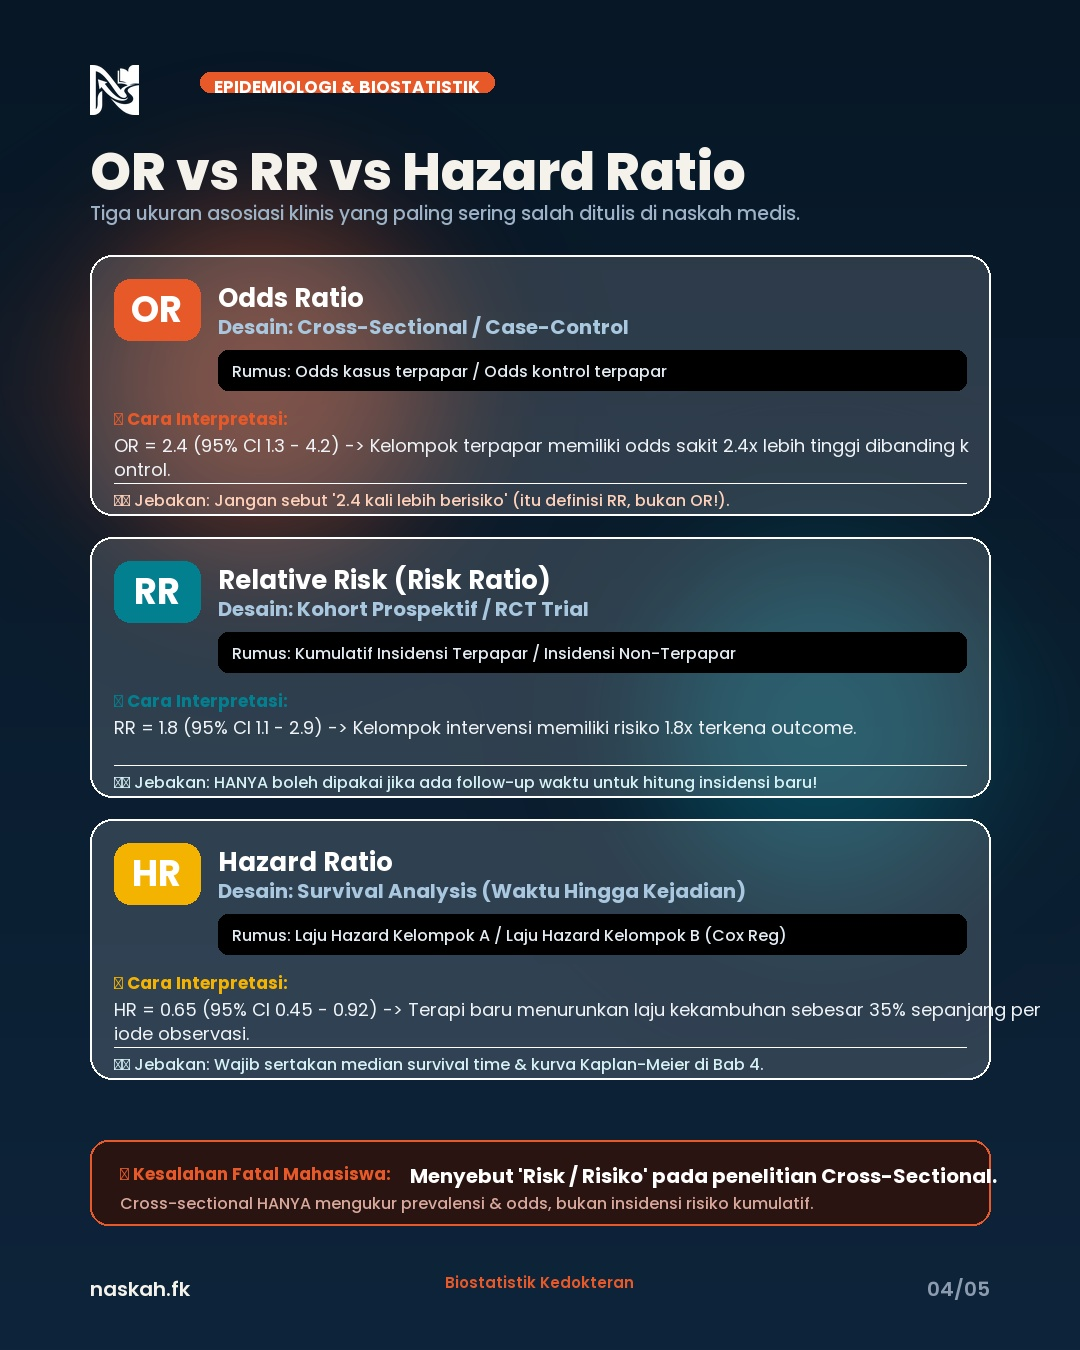
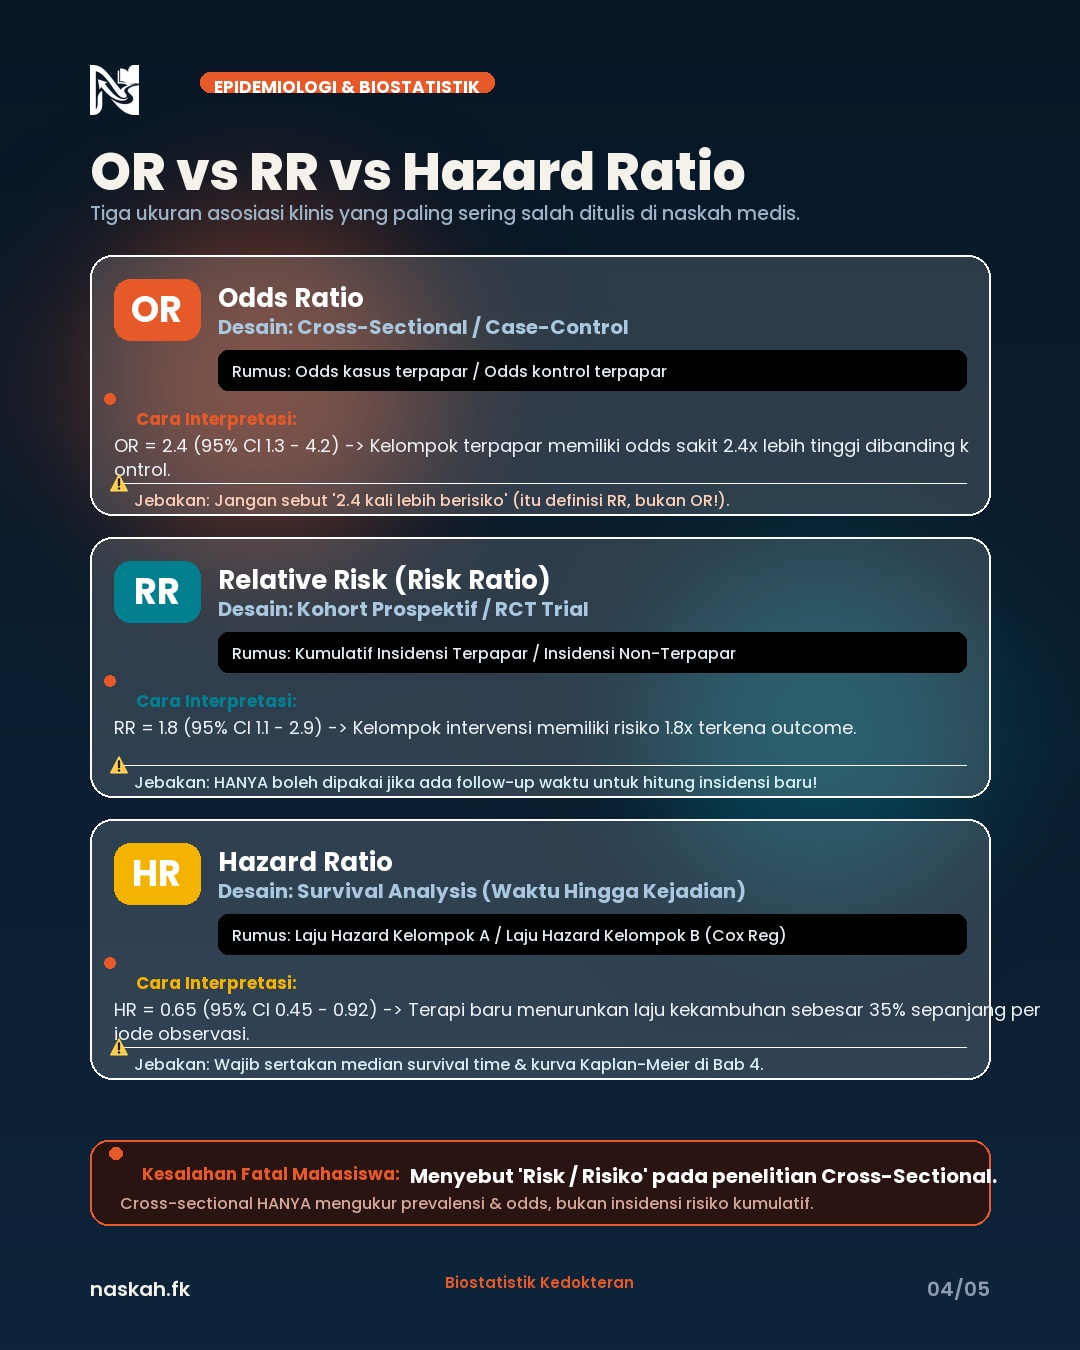
feat(design): resolve broken emoji glyphs, add universal emoji PNG paste & strip helper, 4 rich-density concepts render clean

diff --git a/04_GENERATORS/generate_rich_content_concepts.py b/04_GENERATORS/generate_rich_content_concepts.py
@@ -20,6 +20,10 @@ from __future__ import annotations
 import pathlib
 from PIL import Image, ImageDraw, ImageFilter, ImageFont
 
+import sys
+sys.path.insert(0, str(pathlib.Path(__file__).resolve().parent))
+from emoji_assets import paste_emoji, strip_all_emojis
+
 BASE_DIR = pathlib.Path(r"D:/tm/06_Content")
 FONT_DIR = BASE_DIR / "02_BRAND_ASSETS/fonts/Poppins"
 LOGO_TRANSPARENT = BASE_DIR / "02_BRAND_ASSETS/logos/logo_cutouts_clean/official_logo_transparent.png"
@@ -244,7 +248,8 @@ def render_concept_1_dense_bento():
         # Pro-Rule pill footer inside card
         rule_box = (box[0] + 16, box[3] - 68, box[2] - 16, box[3] - 18)
         d.rounded_rectangle(rule_box, radius=12, fill=ORANGE_LIGHT if c["accent"] == ORANGE else TEAL_LIGHT)
-        d.text((box[0] + 26, box[3] - 56), "💡 Rule:", font=F["pill_bold"], fill=c["accent"])
+        paste_emoji(im, "💡", (box[0] + 22, box[3] - 56), size=24, anchor="la")
+        d.text((box[0] + 50, box[3] - 56), "Rule:", font=F["pill_bold"], fill=c["accent"])
         d.text((box[0] + 90, box[3] - 56), c["rule"][:36] + "...", font=F["caption"], fill=INK)
 
     # Bottom actionable summary pill
@@ -252,7 +257,8 @@ def render_concept_1_dense_bento():
     im = soft_shadow_card(im, sum_box, radius=20, alpha=35, blur=14, offset=(0, 6))
     rounded_rectangle_gradient(im, sum_box, 20, NAVY, NAVY_LIGHT)
     d = ImageDraw.Draw(im)
-    d.text((120, 1182), "📌 Golden Rule:", font=F["pill_bold"], fill=ORANGE)
+    paste_emoji(im, "📌", (116, 1182), size=22, anchor="la")
+    d.text((142, 1182), "Golden Rule:", font=F["pill_bold"], fill=ORANGE)
     d.text((260, 1182), "Selalu tentukan Skala Variabel & Uji Normalitas sebelum buka SPSS!", font=F["body_med"], fill=WHITE)
     d.text((120, 1208), "Simpan cheatsheet ini untuk panduan analisis data naskah kamu.", font=F["caption"], fill=MUTED_LIGHT)
 
@@ -352,13 +358,15 @@ def render_concept_2_workflow_timeline():
         # Detail Box inner
         detail_box = (box[0] + 18, box[1] + 80, box[2] - 18, box[1] + 144)
         d.rounded_rectangle(detail_box, radius=10, fill="#FFFFFF", outline=BORDER_LIGHT, width=1)
-        d.text((box[0] + 32, box[1] + 96), "👉 " + s["detail"][:105] + ("..." if len(s["detail"]) > 105 else ""), font=F["body_reg"], fill=INK)
+        d.text((box[0] + 48, box[1] + 96), s["detail"][:105] + ("..." if len(s["detail"]) > 105 else ""), font=F["body_reg"], fill=INK)
+        paste_emoji(im, "👉", (box[0] + 22, box[1] + 96), size=20, anchor="la")
 
     # Bottom Tip
     bottom_box = (90, 1165, 990, 1235)
     rounded_rectangle_gradient(im, bottom_box, 18, NAVY, NAVY_LIGHT)
     d = ImageDraw.Draw(im)
-    d.text((120, 1188), "⚡ Output Akhir:", font=F["pill_bold"], fill=ORANGE)
+    paste_emoji(im, "⚡", (116, 1188), size=22, anchor="la")
+    d.text((142, 1188), "Output Akhir:", font=F["pill_bold"], fill=ORANGE)
     d.text((270, 1188), "Bab 2 Tinjauan Pustaka siap diserahkan ke Dosen Pembimbing!", font=F["body_med"], fill=WHITE)
 
     footer(im, "03/05", "Workflow Tinjauan Pustaka")
@@ -449,19 +457,22 @@ def render_concept_3_dark_comparison():
         d.text((box[0] + 142, box[1] + 105), "Rumus: " + m["formula"], font=F["caption"], fill="#E3ECF3")
 
         # Interpretation Box
-        d.text((box[0] + 24, box[1] + 152), "📊 Cara Interpretasi:", font=F["pill_bold"], fill=m["color"])
+        paste_emoji(im, "📊", (box[0] + 20, box[1] + 152), size=20, anchor="la")
+        d.text((box[0] + 46, box[1] + 152), "Cara Interpretasi:", font=F["pill_bold"], fill=m["color"])
         d.text((box[0] + 24, box[1] + 178), m["interpretation"][:98], font=F["body_reg"], fill="#F0F4F8")
         if len(m["interpretation"]) > 98:
             d.text((box[0] + 24, box[1] + 202), m["interpretation"][98:], font=F["body_reg"], fill="#F0F4F8")
 
         # Warning / Pitfall bar at bottom of card
         d.line([(box[0] + 24, box[1] + 228), (box[2] - 24, box[1] + 228)], fill=(255, 255, 255, 30), width=1)
-        d.text((box[0] + 24, box[1] + 234), "⚠ Jebakan: " + m["pitfall"], font=F["caption"], fill="#FFD1BA" if m["color"] == ORANGE else "#D6F2F5")
+        paste_emoji(im, "⚠", (box[0] + 20, box[1] + 234), size=18, anchor="la")
+        d.text((box[0] + 44, box[1] + 234), "Jebakan: " + m["pitfall"], font=F["caption"], fill="#FFD1BA" if m["color"] == ORANGE else "#D6F2F5")
 
     # Red Alert Box
     alert_box = (90, 1140, 990, 1225)
     d.rounded_rectangle(alert_box, radius=18, fill="#2A1412", outline=ORANGE, width=2)
-    d.text((120, 1162), "🚫 Kesalahan Fatal Mahasiswa:", font=F["pill_bold"], fill=ORANGE)
+    paste_emoji(im, "🚫", (116, 1162), size=22, anchor="la")
+    d.text((142, 1162), "Kesalahan Fatal Mahasiswa:", font=F["pill_bold"], fill=ORANGE)
     d.text((410, 1162), "Menyebut 'Risk / Risiko' pada penelitian Cross-Sectional.", font=F["body_bold"], fill=WHITE)
     d.text((120, 1192), "Cross-sectional HANYA mengukur prevalensi & odds, bukan insidensi risiko kumulatif.", font=F["caption"], fill="#D9A89C")
 
@@ -547,7 +558,8 @@ def render_concept_4_editorial_anatomy():
     im = soft_shadow_card(im, q_box, radius=18, alpha=35, blur=14, offset=(0, 5))
     rounded_rectangle_gradient(im, q_box, 18, NAVY, NAVY_LIGHT)
     d = ImageDraw.Draw(im)
-    d.text((120, 1168), "💬 Kata Penguji:", font=F["pill_bold"], fill=ORANGE)
+    paste_emoji(im, "💬", (116, 1168), size=22, anchor="la")
+    d.text((142, 1168), "Kata Penguji:", font=F["pill_bold"], fill=ORANGE)
     d.text((270, 1168), '"Mahasiswa yang paham pembahasannya, sidangnya selesai dalam 20 menit."', font=F["body_bold"], fill=WHITE)
     d.text((120, 1198), "Kuasai narasi bab 5, bukan cuma hafalan angka p-value.", font=F["caption"], fill=MUTED_LIGHT)
 

diff --git a/04_GENERATORS/emoji_assets.py b/04_GENERATORS/emoji_assets.py
@@ -127,3 +127,31 @@ def paste_emoji(im: Image.Image, char: str, xy: tuple[float, float], size: int,
 def strip_emojis(text: str) -> str:
     """Remove emoji chars from a text string (for font-only renders)."""
     return "".join(ch for ch in text if ch not in EMOJI_CODEPOINTS)
+
+
+# Broad Unicode emoji range — catches emoji NOT in EMOJI_CODEPOINTS map too.
+_EMOJI_REGEX = None
+
+def _get_emoji_regex():
+    global _EMOJI_REGEX
+    if _EMOJI_REGEX is None:
+        import re
+        _EMOJI_REGEX = re.compile(
+            "["
+            "\U0001F000-\U0001FAFF"   # Misc Symbols, Enclosed, Pictographs, Ext
+            "\U0001F900-\U0001F9FF"
+            "\U00002600-\U000027BF"   # Misc symbols, Dingbats (⚠ ✨ ⌛ etc.)
+            "\U00002B00-\U00002BFF"   # Misc Symbols and Arrows
+            "\U0000FE00-\U0000FE0F"   # Variation selectors
+            "\U0001F1E6-\U0001F1FF"   # Regional indicator flags
+            "\u200d"                  # ZWJ
+            "\u20e3"                  # Combining keycap
+            "\ufe0f"                  # VS16
+            "]+"
+        )
+    return _EMOJI_REGEX
+
+
+def strip_all_emojis(text: str) -> str:
+    """Strip every emoji/symbol glyph from text (universal, no map needed)."""
+    return _get_emoji_regex().sub("", text)
